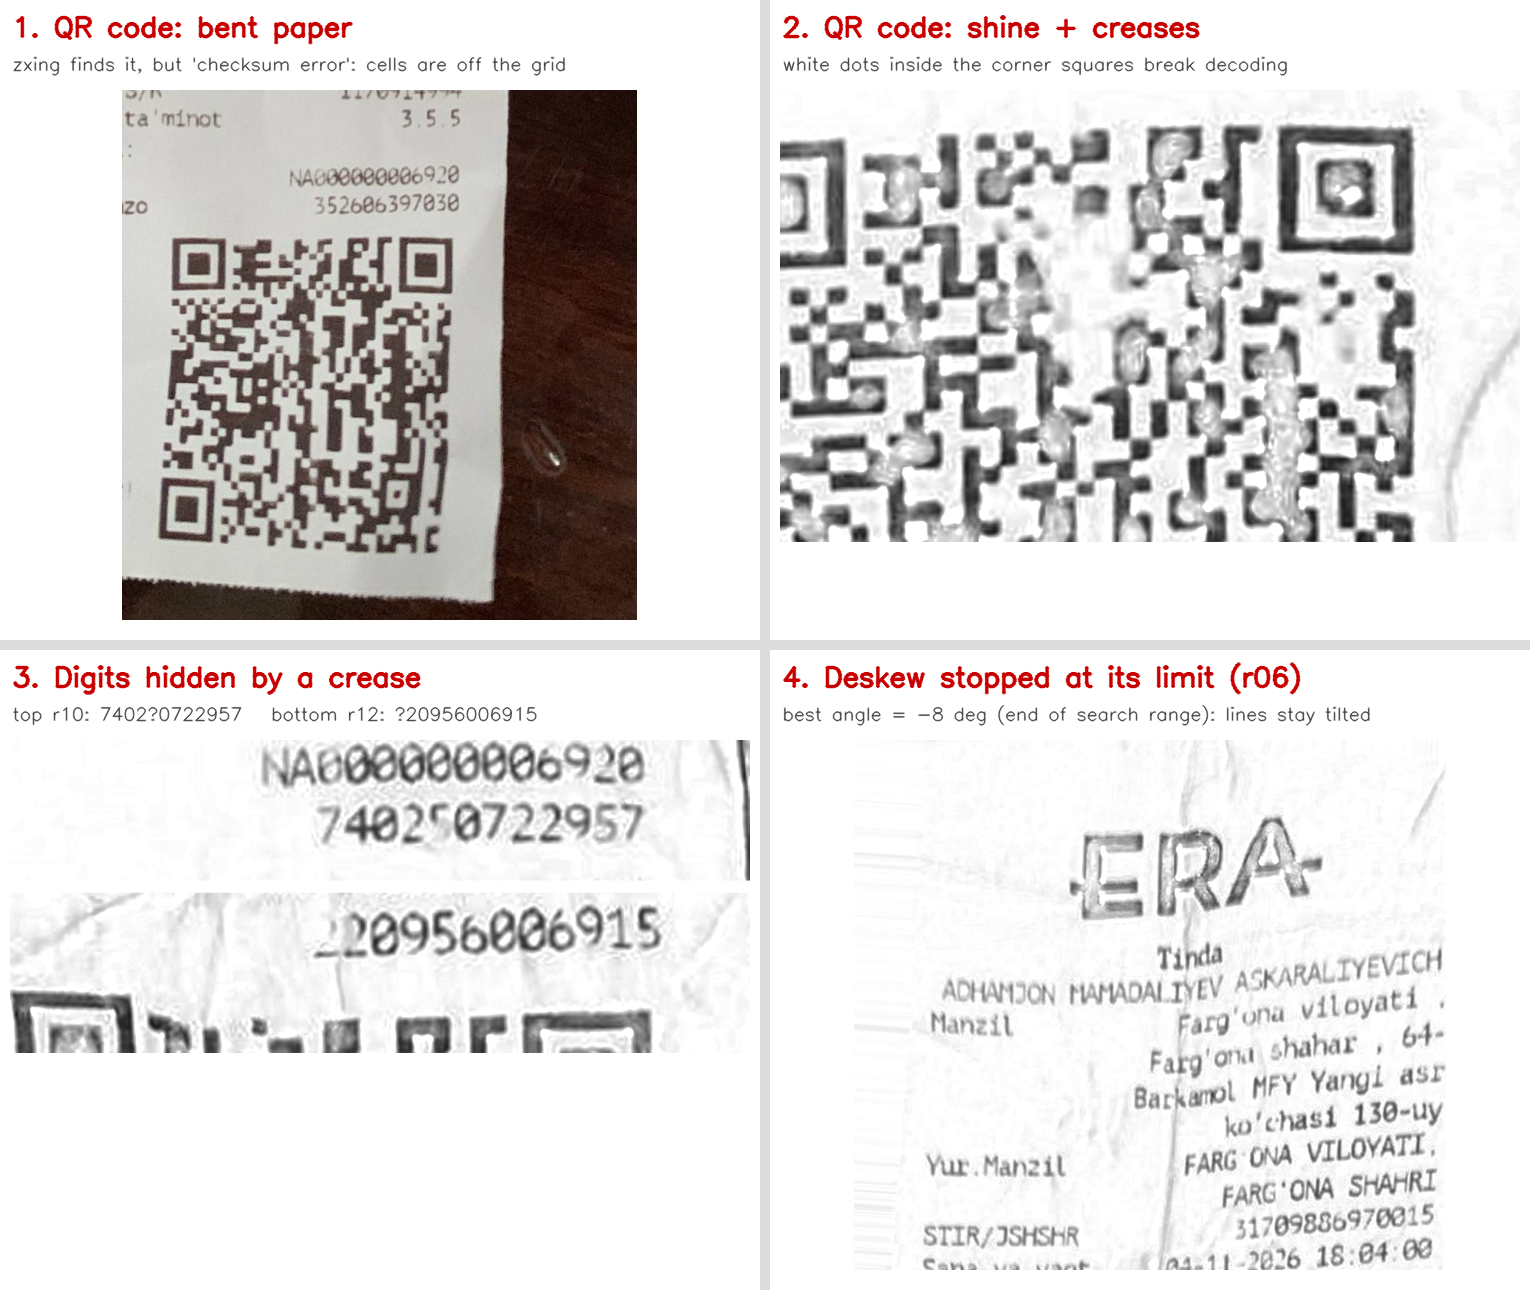
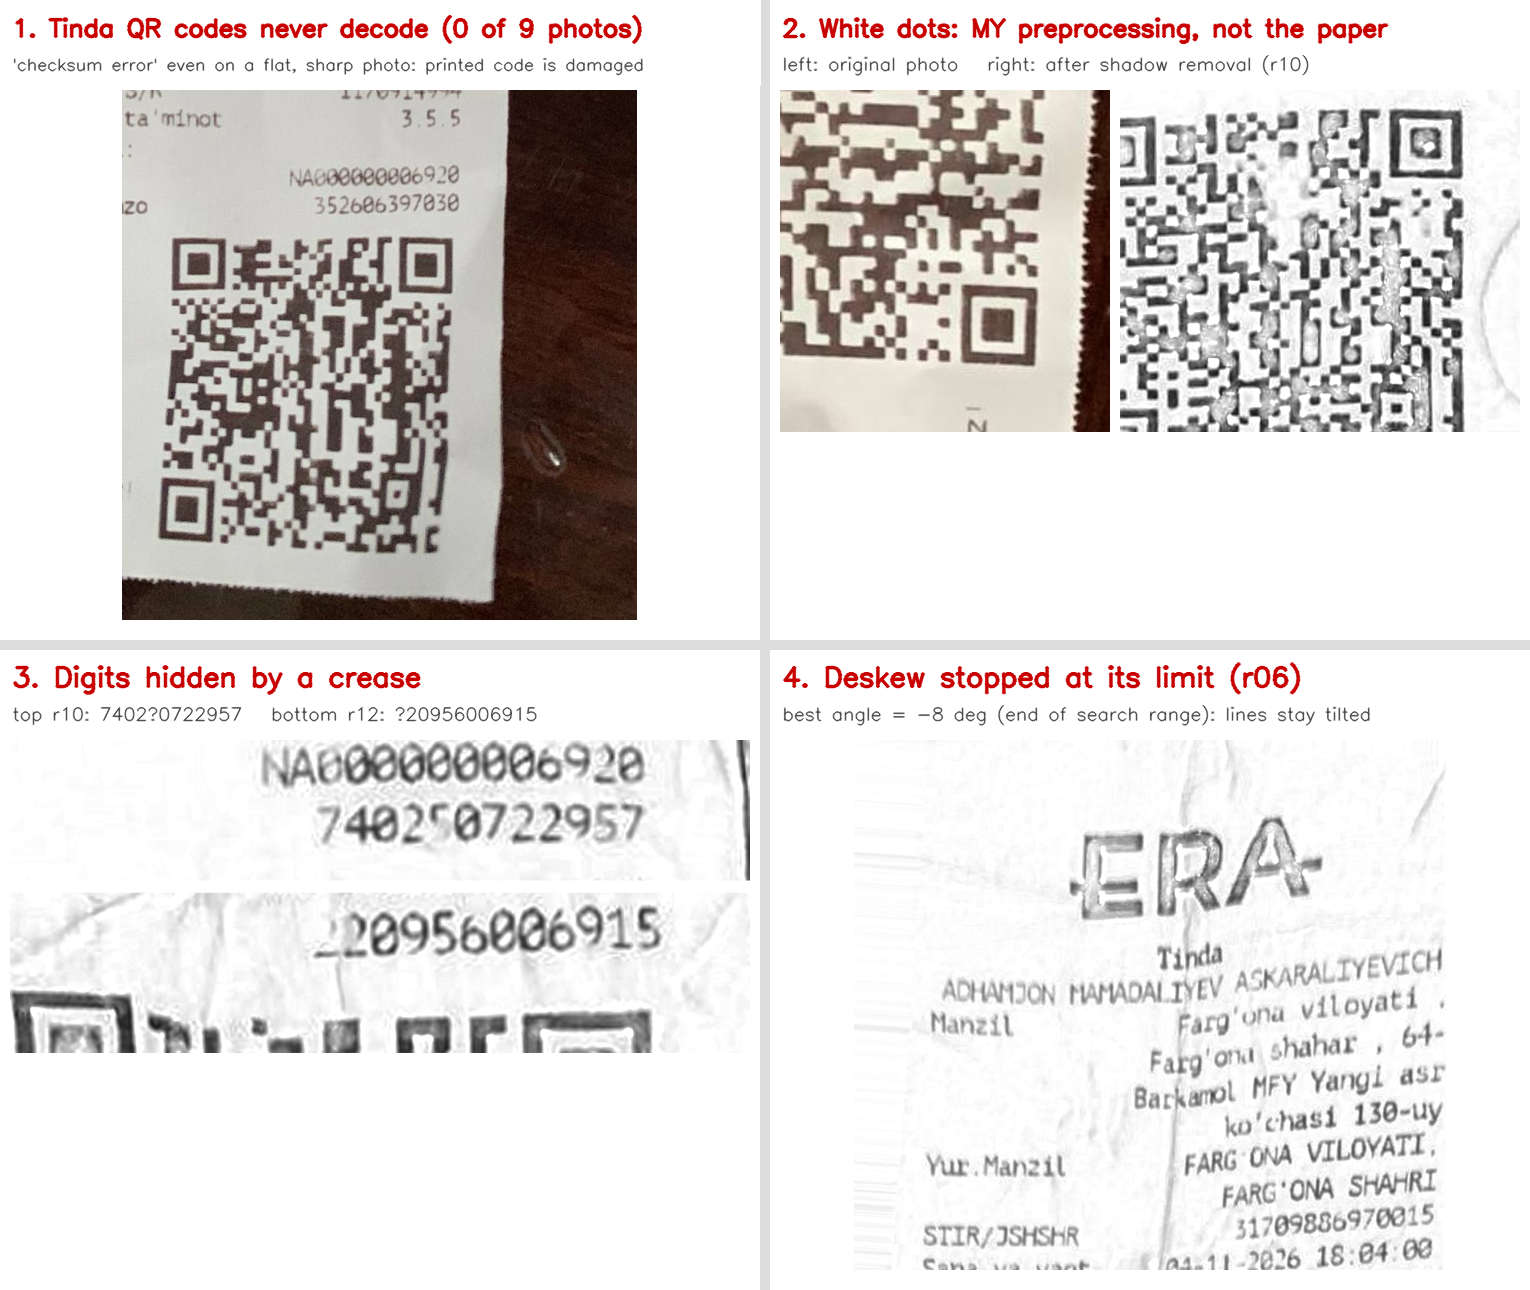
Correct QR error analysis: Tinda codes are damaged, white dots are a preprocessing artefact

Changed region(s): [[0.4915, 0.0, 1.0, 0.4341], [0.0, 0.0, 0.4301, 0.062]]

diff --git a/README.md b/README.md
@@ -149,8 +149,8 @@ Real vs synthetic test photos (pre + post): field accuracy 55.7 % vs 39.3 % (Tes
   normalization, the dotted-zero repair and QR values.
 * Tesseract and EasyOCR end up equal on fields; Tesseract is ~3× faster on CPU, so it is the default.
   EasyOCR is better on raw photos (lower CER) but worse on Cyrillic (it can only load Latin *or* Cyrillic).
-* QR: retries add 4.7 points (52.4 % → 57.1 %). Only 4 of 16 real photos decode at all: the codes are
-  physically bent and creased (see below), which preprocessing cannot undo. When the QR decodes, its
+* QR: retries add 4.7 points (52.4 % → 57.1 %). Only 4 of 16 real photos decode at all: one shop's
+  printed codes are damaged and the others are crumpled (see below), which preprocessing cannot undo. When the QR decodes, its
   fiscal module, receipt number, date and fiscal sign are exact, which is why those fields are the best.
 * "Consistent" is ~0 %: one wrong digit in an item or the total breaks Σ items = total, so this is a
   strict end-to-end measure. Item F1 is low for the same reason (all four attributes must match).
@@ -165,11 +165,18 @@ Real vs synthetic test photos (pre + post): field accuracy 55.7 % vs 39.3 % (Tes
    ("24 000.00" → "24 888.66"). `src/receipt/repair.py` uses the fact that the amount is printed 3–4 times
    (Narx, Naqdsiz, Jami, To'lov uchun jami): it lists what each copy could be if an 8/6/9 is a 0 and keeps
    the value the copies agree on; a value is never changed without support from another copy.
-2. **Bent QR codes.** zxing finds the code but fails with a checksum error: crumpled paper moves the
-   modules off the grid, and reflections on creases put white dots in the finder patterns.
-3. **Sideways photos** (7 of 16): handled by the orientation step (aspect ratio + Tesseract OSD).
-4. **Deskew at its limit** (r06): the projection-profile search stopped at −8°, the edge of its range.
-5. **Unreadable digits on paper**: two fiscal-sign digits are hidden by creases even for a human (r10, r12).
+2. **QR codes that never decode.** Real photos decode by seller: ERA Tinda **0/9**, ERA Barkamol 2/5,
+   Akmal Farm 2/2. zxing finds every Tinda code but fails with a checksum error even on a new flat, sharp
+   photo, so the printed code itself seems damaged (worn thermal print head); on the other shops crumpling
+   is what breaks it. These fields then come from OCR only, and the OCR ↔ QR check says "нет данных".
+3. **An artefact of my own preprocessing.** Background division (shadow removal) estimates the paper
+   brightness with a large blur; inside a big black QR module that estimate is dark too, so the module
+   turns partly white (panel 2: original vs preprocessed). It does not change the QR rate here (the codes
+   fail on the original photo as well); the QR decoder works on the original photo first and uses the
+   preprocessed image only as its last retry.
+4. **Sideways photos** (7 of 16): handled by the orientation step (aspect ratio + Tesseract OSD).
+5. **Deskew at its limit** (r06): the projection-profile search stopped at −8°, the edge of its range.
+6. **Unreadable digits on paper**: two fiscal-sign digits are hidden by creases (r10 was checked on the paper receipt, r12 not yet).
 
 Automatic causes over all wrong fields (pre + post, both engines): *not found* 134, *text misread /
 wrong span* 61, *digits/amounts misread* 20, *digits misread* 7, *date/time misread* 5,

diff --git a/LABELS_TO_CHECK.md b/LABELS_TO_CHECK.md
@@ -15,7 +15,7 @@ When a receipt is correct, change `"_status": "draft"` to `"_status": "verified"
 | r07 | Tinda | 2026-11-04 20:33:07 | 36811 | 570122841671 | 8000 | Guruch 1×8000 |
 | r08 | Tinda | 2026-11-04 21:03:56 | 36812 | 115903172013 | 24000 | Ikkinchi navli un 1×24000 |
 | r09 | AKMAL FARM | 2026-11-04 21:18:15 | 28973 | 760014957255 | 4400 | Шприц 5мл Хелф Лайн 1×500; Перчатки стер.хир №7,5 Дентафил 1×3700; Пакет полиэтилен МАЛЕНЬКИЙ ( Андижон 1×200 |
-| r10 ⚠ | Tinda | 2026-11-04 18:31:36 | 36804 | 740250722957 | 5000 | Margarin 1×5000 |
+| r10 ✅ | Tinda | 2026-11-04 18:31:36 | 36804 | 740250722957 | 5000 | Margarin 1×5000 |
 | r11 | ERA | 2026-11-03 17:12:38 | 11917 | 952988211279 | 20000 | Aralashmalar 1×20000 |
 | r12 ⚠ | Tinda | 2026-11-04 18:14:01 | 36801 | 220956006915 | 15000 | Kofe yanchilgan 1×15000 |
 | r13 | ERA | 2026-10-31 18:34:21 | 11814 | 438814874366 | 19800 | Aralashmalar 1×19800 |
@@ -23,7 +23,7 @@ When a receipt is correct, change `"_status": "draft"` to `"_status": "verified"
 | r15 | ERA | 2026-11-02 17:46:10 | 11881 | 272330013324 | 34000 | Aralashmalar 1×34000 |
 
 Notes:
-- ⚠ r10: fiscal sign, 5th digit (`7402?0722957`, I wrote 5).
+- ✅ r10: fiscal sign confirmed on paper: 740250722957.
 - ⚠ r12: fiscal sign, 1st digit (`?20956006915`, I wrote 2).
 - r04, r09 (Akmal Farm): seconds of the time and the receipt number come from the QR code (`RS:` on the paper), not from `Chek:`.
 - Akmal Farm receipts print no TIN, address or payment type, so those are `null`.

diff --git a/INTERVIEW_NOTES.md b/INTERVIEW_NOTES.md
@@ -34,9 +34,12 @@ of shops the system never saw while I was tuning it."
    ("24 000.00" → "24 888.66"). Fix: the same amount is printed 3–4 times (Narx, Naqdsiz, Jami, To'lov uchun jami).
    For every copy I list what it could be if an 8/6/9 is really a 0, and pick the value the copies agree on.
    It never changes a number without support from another copy.
-2. **QR codes on crumpled paper.** Only 4 of 16 real photos decode: the paper bends the QR grid
-   ("checksum error") and creases make white dots inside the corner squares. More preprocessing can't fix
-   physical damage, so the system falls back to OCR for those fields (picture: `reports/figures/problems.png`).
+2. **QR codes that never decode.** Only 4 of 16 real photos decode. I grouped the results by shop:
+   ERA Tinda 0 of 9, even on a flat, sharp photo → that printer's codes are damaged; the other shops
+   fail only when the paper is crumpled. The system then falls back to OCR for those fields.
+   *Bonus story:* I first thought creases made white dots in the QR, but comparing the original photo with
+   the preprocessed one showed **my own shadow-removal step** created them. Lesson: always compare with the
+   original before blaming the data (picture: `reports/figures/problems.png`).
 3. **Sideways photos.** 7 photos were taken sideways; I added an orientation step
    (a receipt is long and narrow, so if it's wider than tall it's lying sideways; Tesseract OSD checks upside-down).
 
